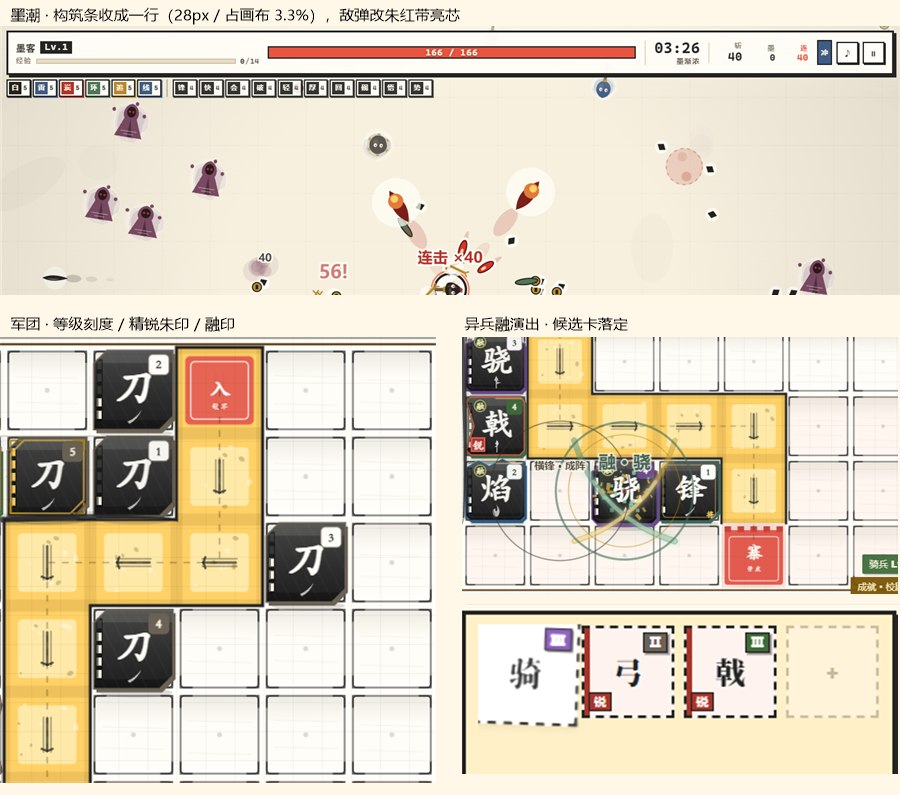
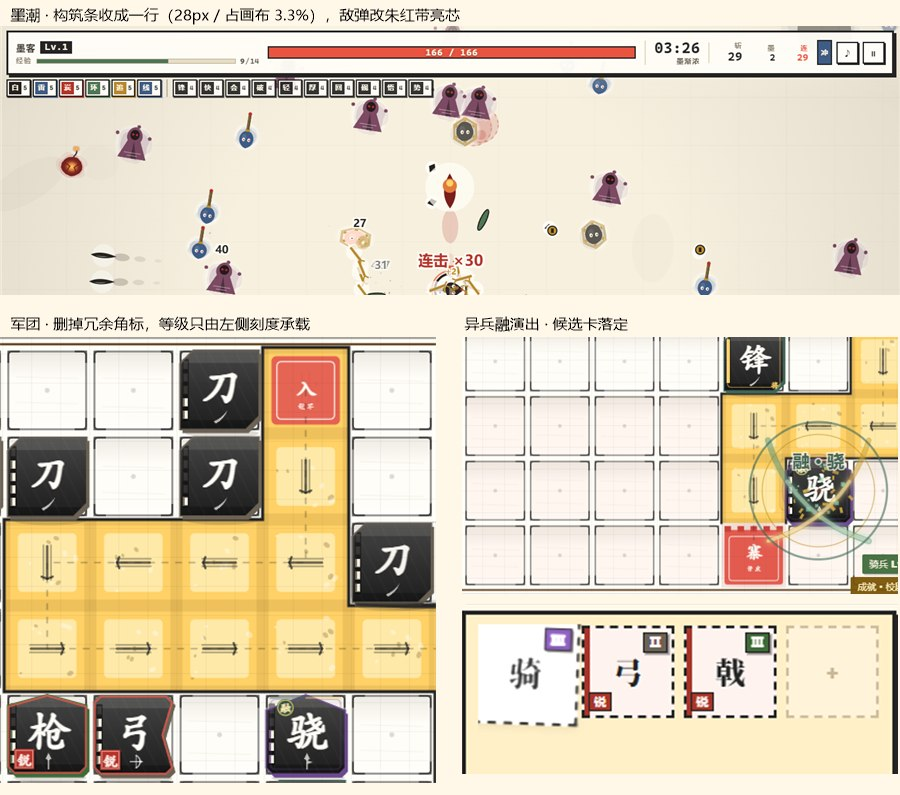
军团：删掉兵牌右上角的等级角标（作者反馈）
左侧五格刻度已经把等级说清楚，右上角再放一个数字是同一事实编码两遍；
白底那块还是整张墨牌上最跳的元素，把视线引到最不重要的信息上。
英雄更是错的：battle.addUnit 里英雄写死 lv:1，永不升级，角标永远显示 1。

- 移除角标，等级只由左侧刻度承载
- 英雄没有等级概念，左侧改整条金书签，只表身份
- 同步更新文档与留档图

diff --git a/site/src/themes/hall/legion/draw.ts b/site/src/themes/hall/legion/draw.ts
@@ -1130,16 +1130,24 @@ export class Scene {
     ctx.fillStyle = 'rgba(0,0,0,.5)'
     roundRect(ctx, gxp, gyp, bw, bh, 1.5)
     ctx.fill()
-    const segH = bh / 5
-    for (let i = 0; i < 5; i++) {
-      const lit = i >= 5 - Math.min(5, u.lv)
-      const sy = gyp + i * segH
-      /* 亮格用纸白：墨牌上只有纸色才跳得出来，品质色压墨底等于看不见 */
-      ctx.fillStyle = lit ? (u.lv >= 5 ? '#ffd166' : '#fff8e8') : 'rgba(255,248,232,.13)'
-      ctx.fillRect(gxp + bw * 0.16, sy + segH * 0.18, bw * 0.68, segH * 0.64)
-      if (lit) {
-        ctx.fillStyle = withAlpha(color, 0.85)
-        ctx.fillRect(gxp + bw * 0.16, sy + segH * 0.18, bw * 0.22, segH * 0.64)
+    if (hero) {
+      /* 统帅没有等级：整条金书签，只表身份，不假装能被数出几级 */
+      ctx.fillStyle = GOLD
+      ctx.fillRect(gxp + bw * 0.16, gyp + bh * 0.03, bw * 0.68, bh * 0.94)
+      ctx.fillStyle = 'rgba(255,255,255,.35)'
+      ctx.fillRect(gxp + bw * 0.16, gyp + bh * 0.03, bw * 0.24, bh * 0.94)
+    } else {
+      const segH = bh / 5
+      for (let i = 0; i < 5; i++) {
+        const lit = i >= 5 - Math.min(5, u.lv)
+        const sy = gyp + i * segH
+        /* 亮格用纸白：墨牌上只有纸色才跳得出来，品质色压墨底等于看不见 */
+        ctx.fillStyle = lit ? (u.lv >= 5 ? '#ffd166' : '#fff8e8') : 'rgba(255,248,232,.13)'
+        ctx.fillRect(gxp + bw * 0.16, sy + segH * 0.18, bw * 0.68, segH * 0.64)
+        if (lit) {
+          ctx.fillStyle = withAlpha(color, 0.85)
+          ctx.fillRect(gxp + bw * 0.16, sy + segH * 0.18, bw * 0.22, segH * 0.64)
+        }
       }
     }
 
@@ -1175,25 +1183,10 @@ export class Scene {
       ctx.stroke()
     }
 
-    /* 等级：一枚小角牌，字号跟着格子走 */
-    const badge = Math.max(11, Math.round(cell * 0.235))
-    const bx = x + w - badge - cell * 0.045
-    const by = y + cell * 0.045
-    ctx.fillStyle = u.lv >= 4 ? color : '#fffdf7'
-    roundRect(ctx, bx, by, badge, badge, badge * 0.22)
-    ctx.fill()
-    if (u.lv < 4) {
-      ctx.strokeStyle = withAlpha(color, 0.75)
-      ctx.lineWidth = 1.2
-      roundRect(ctx, bx, by, badge, badge, badge * 0.22)
-      ctx.stroke()
-    }
-    /* 低级角标是纸底，字必须落墨 —— 原来纸底配纸色字，1~3 级根本读不出来 */
-    ctx.fillStyle = u.lv >= 4 ? '#fff8e8' : INK
-    ctx.font = '800 ' + Math.round(badge * 0.55) + 'px ' + SERIF
-    ctx.textAlign = 'center'
-    ctx.textBaseline = 'middle'
-    ctx.fillText(String(u.lv), bx + badge / 2, by + badge / 2 + 0.5)
+    /* 右上角原来还有一枚等级角牌，删了。
+       左侧刻度已经把等级说清楚，同一个事实编码两遍是噪声；
+       而且白底那块是整张墨牌上最跳的元素，把视线引到最不重要的信息上。
+       英雄更是错的：battle.addUnit 里英雄写死 lv:1，永不升级，角标永远显示 1。 */
 
     /* 主字：兵种字放到足够大，纸色压在墨底上 */
     if (u.flash > 0) ctx.fillStyle = withAlpha(color, 0.95)

diff --git a/docs/工作室打磨-可读性修复-2026-11-25.md b/docs/工作室打磨-可读性修复-2026-11-25.md
@@ -16,7 +16,7 @@
 | 1 | 墨潮信息显示"确实需要存在但是他遮挡了部分游戏视角" | 布局问题，信息不能删 | 构筑条两行并一行，名字收进悬停浮标 |
 | 2 | "箱子爆率比较高" | 数值问题 | 三条掉落渠道同时下调 |
 | 3 | "敌人的子弹弹幕建议红色清晰显示" | 可读性问题 | 敌弹不再沿用来源色，统一朱红四层画法 |
-| 4 | 军团"升级合成没有明显清晰的视觉反馈视觉变化" | 一半是 bug，一半是设计缺失 | 修角标看不见字的 bug + 等级刻度 + 分档演出 |
+| 4 | 军团"升级合成没有明显清晰的视觉反馈视觉变化" | 一半是 bug，一半是设计缺失 | 等级刻度 + 分档演出；冗余的等级角标删除 |
 | 5 | "精锐普通也没有明显的区分显示" | 标识太弱 | 小字改朱红方印 + 整牌朱边 |
 | 6 | "技能组合特效也是" | 演出与普通合成共用一套 | 异兵融独立演出 + 融合兵常驻融印 |
 | 7 | "候选区的兵怎么是遮挡的" | CSS 层叠 bug | 角标定位收回单角 |
@@ -46,7 +46,7 @@
 修复追加在 `legion-v7.css` 末尾（最高层），四边收回单角、`width/height:auto`，做成带墨边硬阴影的小角牌。
 实测 **59×61 → 18×15**，`em` 17×14。
 
-### 2.2 兵牌等级 1~3 级读不出来
+### 2.2 兵牌等级 1~3 级读不出来 → 角标整个删掉
 
 `draw.ts` 的等级角标：
 
@@ -59,7 +59,16 @@ ctx.fillStyle = '#fff8e8'                        // 字 = 纸色
 纸底配纸色字，**1~3 级的数字是隐形的**。作者说"升级合成没有明显清晰的视觉变化"，
 最直接的一条就是：合完了，等级数字压根没显示出来。4 级以上因为底色换成品质色才看得见。
 
-改成低级角标落墨字 + 一道品质色细边。
+先把字改成落墨 + 一道品质色细边。但作者随后附英雄牌截图反问"右上角这个白正方形……感觉没意义"——
+这个判断是对的，而且比"没意义"更糟：
+
+- **同一个事实编码了两遍**。左侧刚加了五格等级刻度，右上角再放一个数字，是冗余。
+- **白底那块是整张墨牌上最跳的元素**，把视线引到最不重要的信息上，与"第一眼认兵种"的层级相反。
+- **在英雄牌上它是错的**。`battle.ts:181` 英雄写死 `lv: 1`，永不升级、不参与合成，
+  角标永远显示 1，等于挂了一条假信息。
+
+所以最终**删掉角标**，等级只由左侧刻度承载。英雄没有等级概念，左侧改画整条金书签，
+只表身份，不假装能被数出几级。删完之后牌面干净很多，汉字重新成为唯一视觉主角。
 
 ---
 
@@ -211,7 +220,7 @@ node site/scripts/probe-r4-visual.mjs        # 输出 site/.qa/r4/*.png
 - `rogue/rogue.css` — v9 构筑条收纳段
 
 **军团**
-- `legion/draw.ts` — 等级刻度、满级金饰、精锐朱印、融印、角标落墨字
+- `legion/draw.ts` — 等级刻度、满级金饰、精锐朱印、融印；删除冗余等级角标，英雄改金书签
 - `legion/game.ts` — 合成演出分三档、`benchPop`、debug 钩子 veteran 参数
 - `legion/ui.ts` — `renderBench` 支持 `pop`
 - `legion/legion-v7.css` — 候选区角标定位修复 + 精锐卡朱缘 + 落定动画
